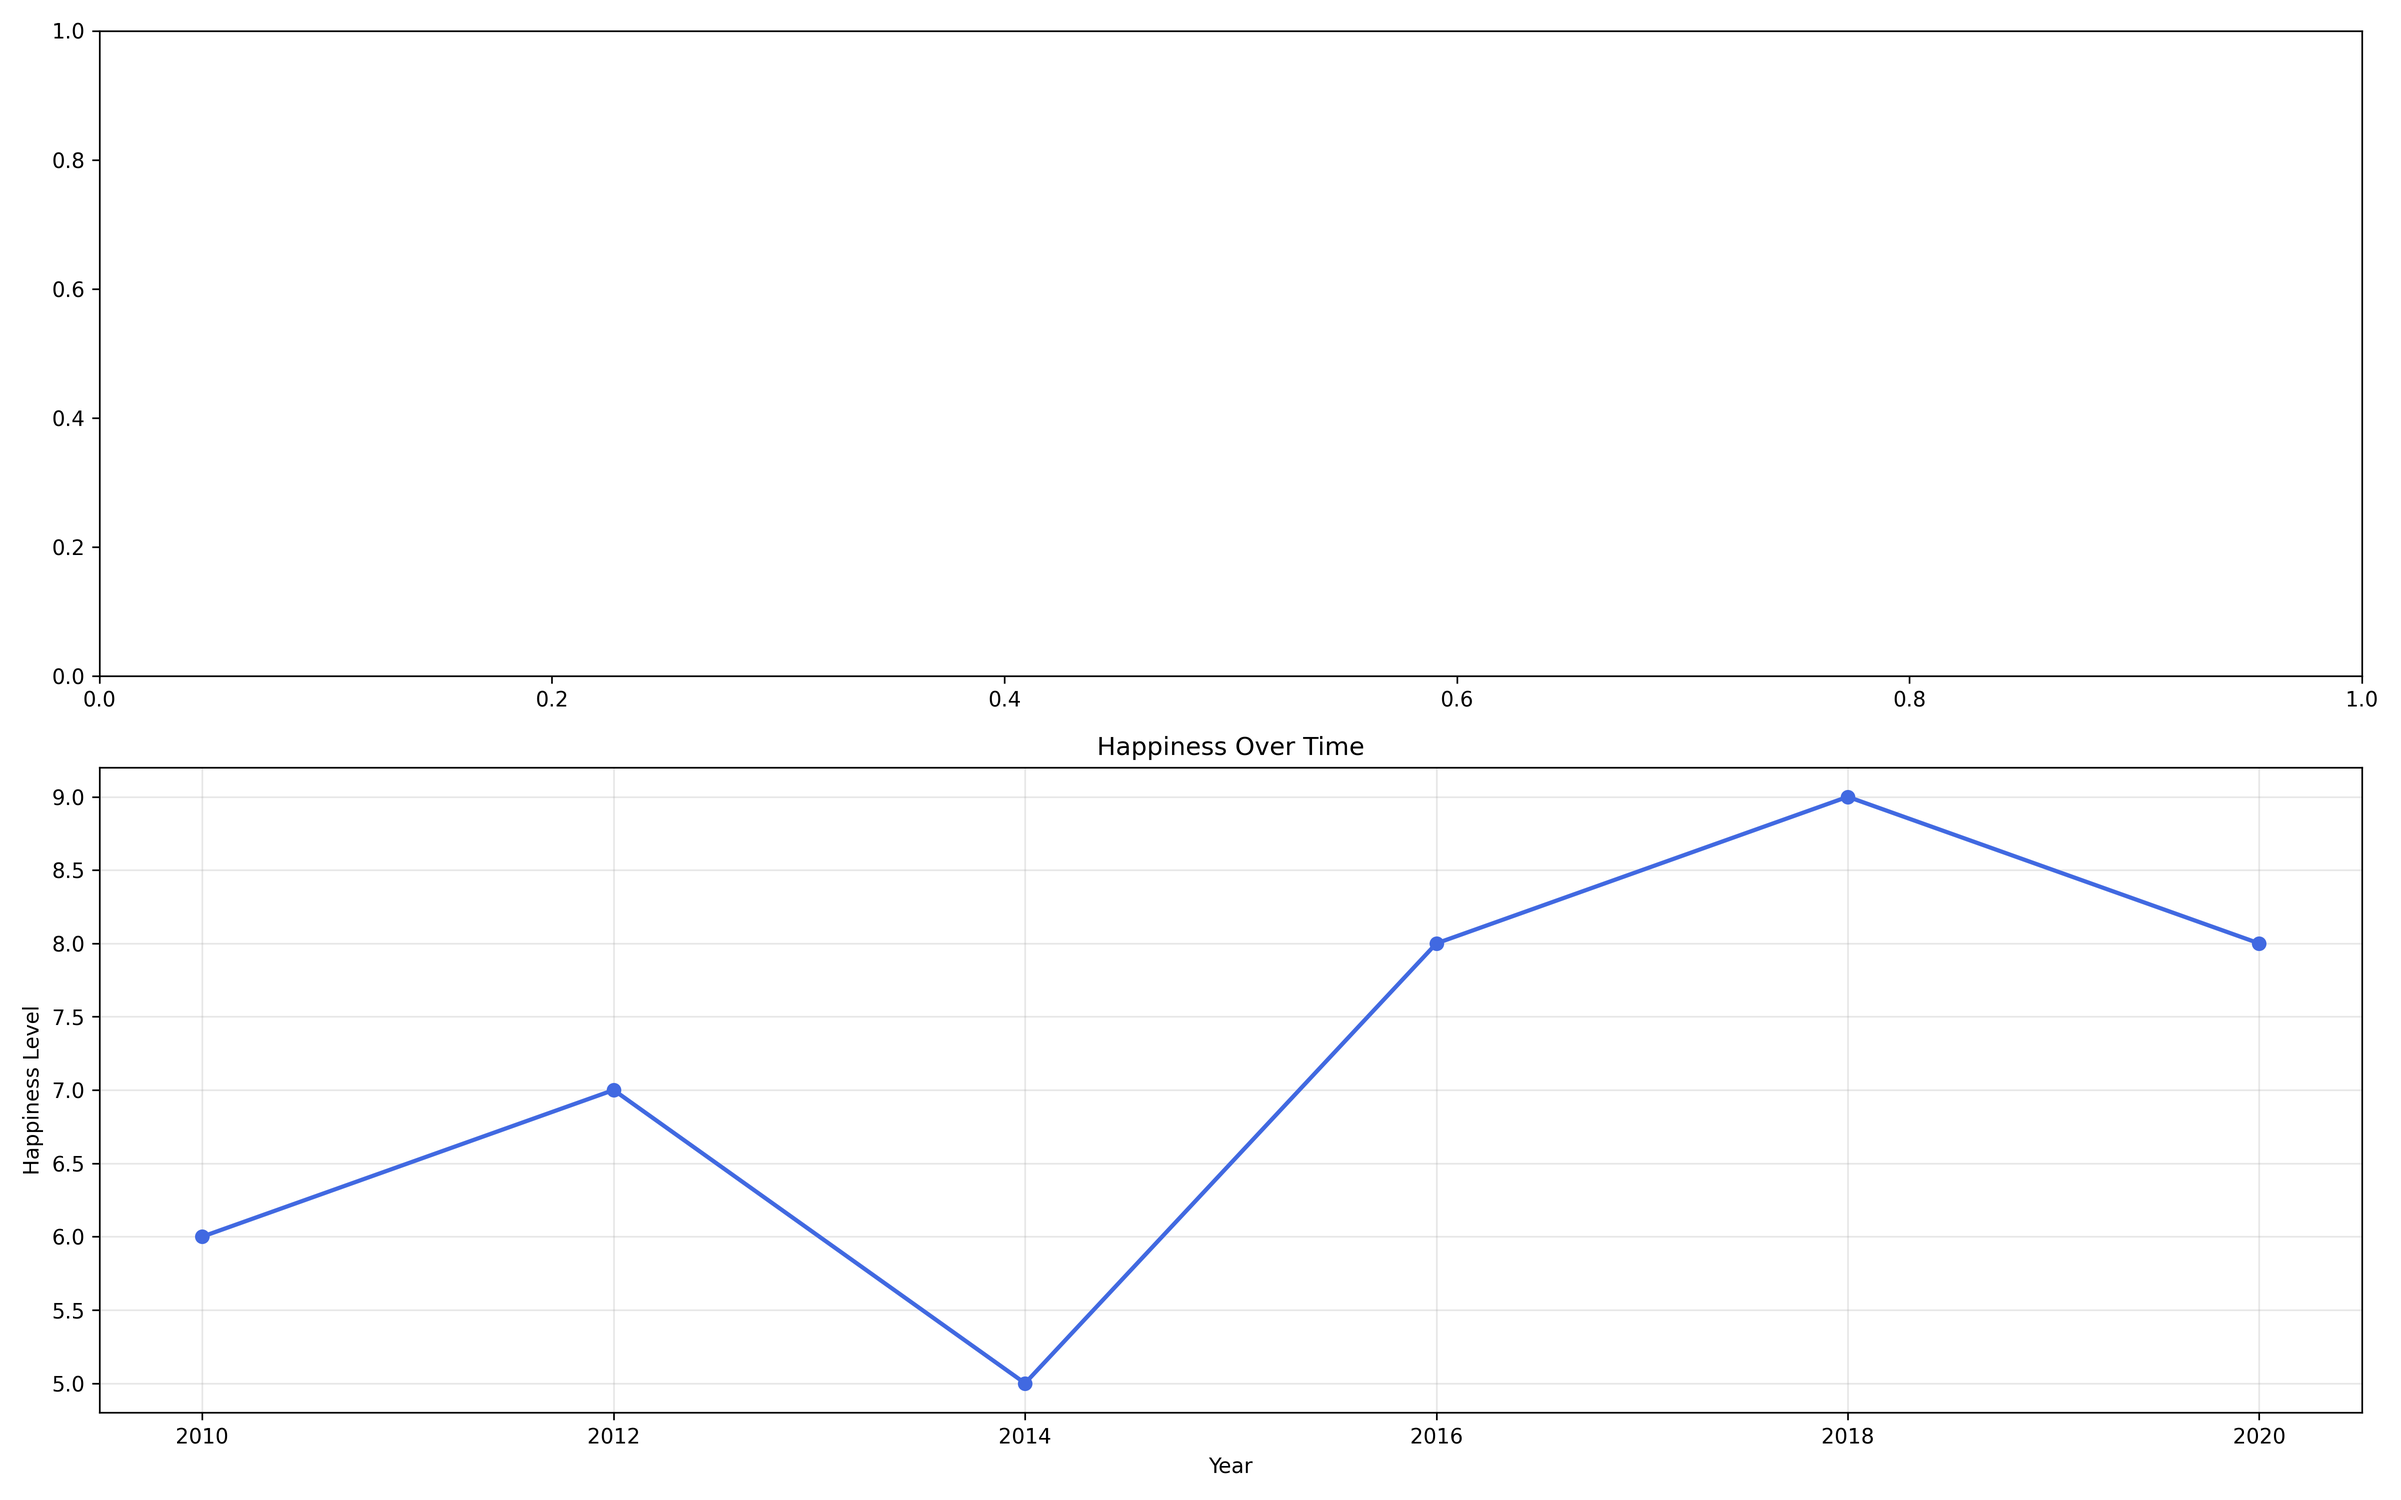
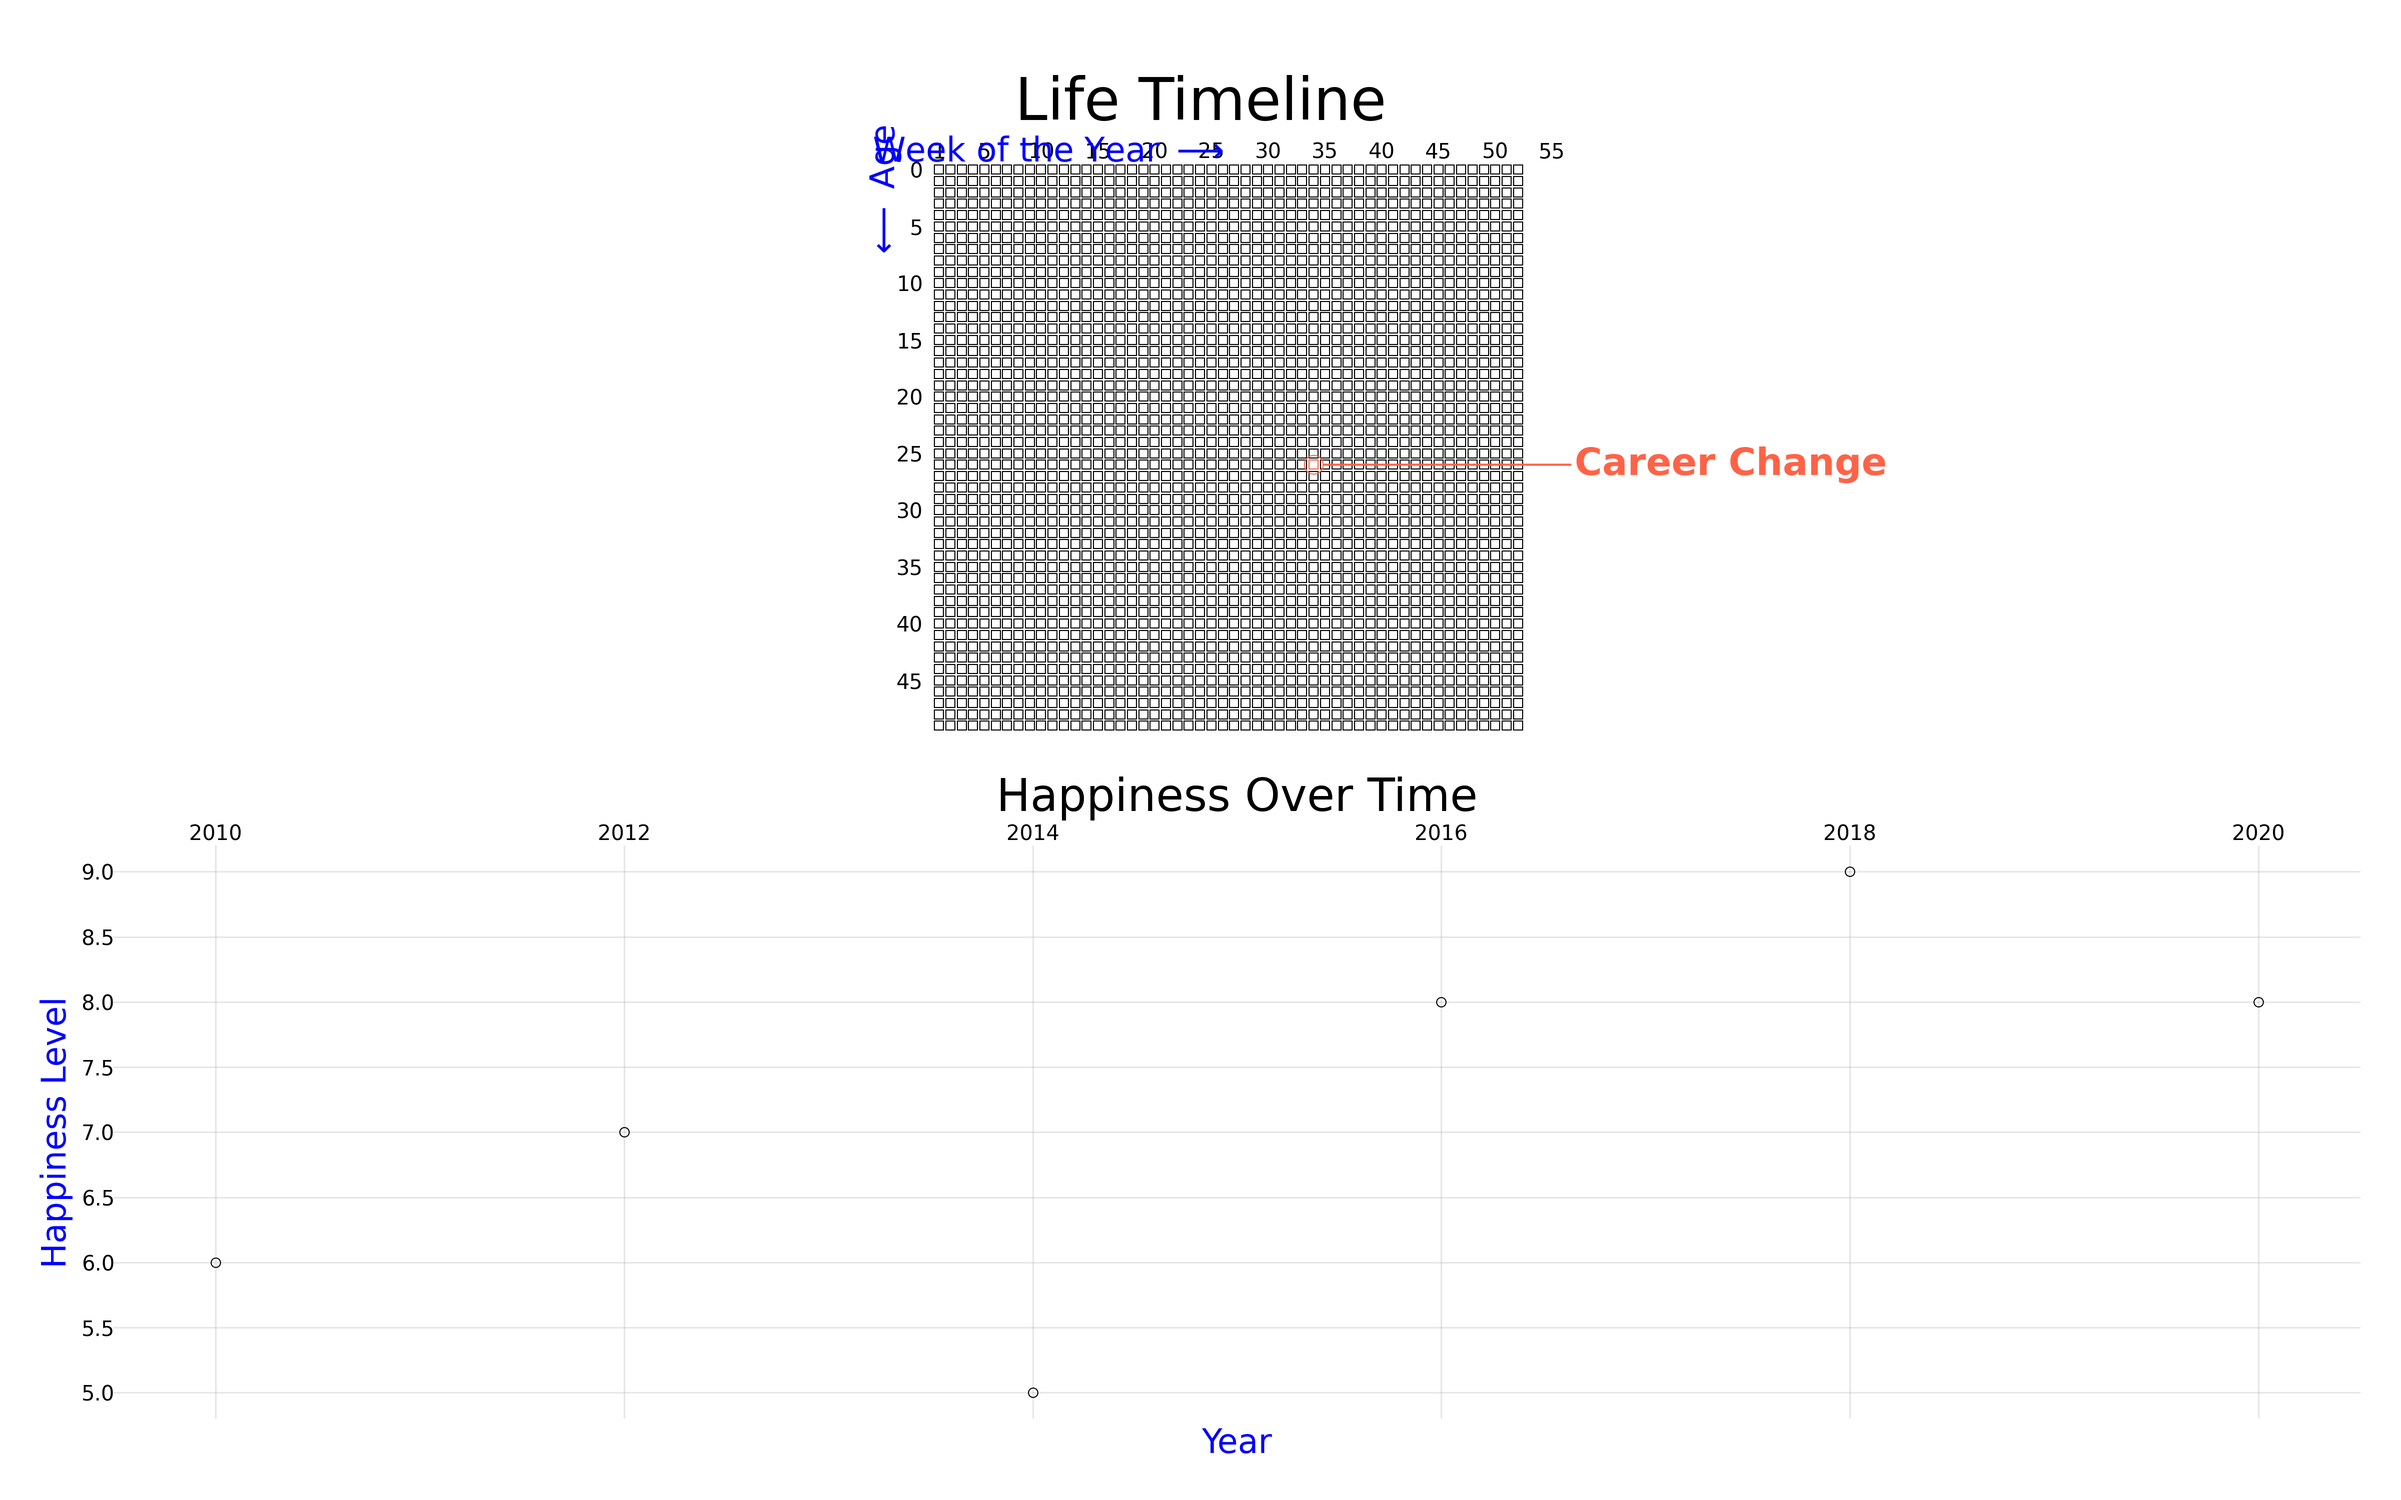
Fix blank axes in provided-axes examples and add public draw() method
The examples were calling fig.savefig() directly without triggering
Lifegraph's internal __draw(), resulting in blank axes output. Added a
public draw() method so users who manage their own figure lifecycle can
trigger rendering explicitly. Also fixed example path handling and
updated README with provided-axes documentation.

diff --git a/examples/provided_axes.py b/examples/provided_axes.py
@@ -8,31 +8,35 @@ This example shows how to:
 """
 from lifegraph.lifegraph import Lifegraph, Papersize
 from datetime import date
+from pathlib import Path
 import matplotlib.pyplot as plt
+
+IMAGES_DIR = Path(__file__).parent / "images"
 
 
 def single_axes_example(path=None):
     """Example of using Lifegraph with a single provided axes"""
     # Create a figure and axes
     fig, ax = plt.subplots(figsize=(10, 8))
-    
+
     # Create Lifegraph with the provided axes
     birthday = date(1990, 11, 1)
     g = Lifegraph(birthday, max_age=50, ax=ax)
-    
+
     # Add some life events
     g.add_life_event('First Job', date(2012, 6, 1), color='#00FF00')
     g.add_life_event('Got Married', date(2015, 8, 15), color='#FF1493')
     g.add_life_event('Started PhD', date(2018, 9, 1), color='#1E90FF')
-    
+
     g.add_title("My Life (Single Axes Example)")
-    
+
+    # Since we provided the axes, we trigger drawing explicitly
+    g.draw()
+
     # Since we provided the axes, we control the figure lifecycle
-    if path:
-        fig.savefig(f"{path}/provided_axes_single.png", dpi=300)
-    else:
-        fig.savefig("images/provided_axes_single.png", dpi=300)
-    
+    output = Path(path) / "provided_axes_single.png" if path else IMAGES_DIR / "provided_axes_single.png"
+    fig.savefig(str(output), dpi=300)
+
     plt.close(fig)
 
 
@@ -40,32 +44,34 @@ def multiple_subplots_example(path=None):
     """Example of using Lifegraph with multiple subplots"""
     # Create a figure with two subplots side by side
     fig, (ax1, ax2) = plt.subplots(1, 2, figsize=(16, 8))
-    
+
     # Create two different life graphs
     person1_birthday = date(1985, 3, 15)
     person2_birthday = date(1992, 7, 20)
-    
+
     g1 = Lifegraph(person1_birthday, max_age=50, ax=ax1)
     g2 = Lifegraph(person2_birthday, max_age=50, ax=ax2)
-    
+
     # Add events for person 1
     g1.add_life_event('Graduated College', date(2007, 5, 20), color='#FFD700')
     g1.add_life_event('First Child', date(2012, 3, 10), color='#FF69B4')
     g1.add_title("Person 1's Life")
-    
+
     # Add events for person 2
     g2.add_life_event('Started Career', date(2014, 8, 1), color='#32CD32')
     g2.add_life_event('Bought House', date(2019, 11, 5), color='#8B4513')
     g2.add_title("Person 2's Life")
-    
+
+    # Trigger drawing on both subplots
+    g1.draw()
+    g2.draw()
+
     # Adjust layout and save
     plt.tight_layout()
-    
-    if path:
-        fig.savefig(f"{path}/provided_axes_multiple.png", dpi=300)
-    else:
-        fig.savefig("images/provided_axes_multiple.png", dpi=300)
-    
+
+    output = Path(path) / "provided_axes_multiple.png" if path else IMAGES_DIR / "provided_axes_multiple.png"
+    fig.savefig(str(output), dpi=300)
+
     plt.close(fig)
 
 
@@ -73,14 +79,17 @@ def mixed_plot_example(path=None):
     """Example mixing Lifegraph with other matplotlib plots"""
     # Create a figure with multiple subplots of different types
     fig = plt.figure(figsize=(16, 10))
-    
+
     # Life graph in the top subplot
     ax1 = fig.add_subplot(2, 1, 1)
     birthday = date(1988, 5, 10)
     g = Lifegraph(birthday, max_age=50, ax=ax1)
     g.add_life_event('Career Change', date(2015, 1, 1), color='#FF6347')
     g.add_title("Life Timeline")
-    
+
+    # Trigger drawing on the lifegraph axes
+    g.draw()
+
     # Regular matplotlib plot in the bottom subplot
     ax2 = fig.add_subplot(2, 1, 2)
     years = [2010, 2012, 2014, 2016, 2018, 2020]
@@ -90,14 +99,12 @@ def mixed_plot_example(path=None):
     ax2.set_ylabel('Happiness Level')
     ax2.set_title('Happiness Over Time')
     ax2.grid(True, alpha=0.3)
-    
+
     plt.tight_layout()
-    
-    if path:
-        fig.savefig(f"{path}/provided_axes_mixed.png", dpi=300)
-    else:
-        fig.savefig("images/provided_axes_mixed.png", dpi=300)
-    
+
+    output = Path(path) / "provided_axes_mixed.png" if path else IMAGES_DIR / "provided_axes_mixed.png"
+    fig.savefig(str(output), dpi=300)
+
     plt.close(fig)
 
 
@@ -105,20 +112,15 @@ def main(path=None):
     """Run all examples"""
     print("Creating single axes example...")
     single_axes_example(path)
-    
+
     print("Creating multiple subplots example...")
     multiple_subplots_example(path)
-    
+
     print("Creating mixed plot example...")
     mixed_plot_example(path)
-    
+
     print("Examples created successfully!")
 
 
 if __name__ == '__main__':
     main()
-
-
-def test_provided_axes(tmp_path):
-    """Test function for pytest"""
-    main(tmp_path)

diff --git a/tests/test_lifegraph.py b/tests/test_lifegraph.py
@@ -138,6 +138,7 @@ def test_lifegraph_axes_receives_annotations(tmp_path):
     
     # Trigger drawing
     output_file = tmp_path / "test_annotations.png"
+    print("Saving to", output_file)
     g.save(str(output_file))
     
     # Verify that annotations were added to the axes
@@ -168,6 +169,7 @@ def test_lifegraph_axes_multiple_subplots(tmp_path):
     
     # Draw both by calling save on each (or we could call a draw method if it were public)
     output_file = tmp_path / "test_multiple.png"
+    print("Saving to", output_file)
     # We need to trigger drawing on both before saving
     # Since save calls __draw internally, we call save on both
     # But only need to actually write the file once
@@ -183,3 +185,6 @@ def test_lifegraph_axes_multiple_subplots(tmp_path):
     
     # Clean up
     plt.close(fig)
+
+if __name__ == "__main__":
+    pytest.main()

diff --git a/lifegraph/lifegraph.py b/lifegraph/lifegraph.py
@@ -277,6 +277,15 @@ class Lifegraph:
         self.image_name = image_name
         self.image_alpha = alpha
 
+    def draw(self):
+        """Draw the graph onto the axes.
+
+        This is useful when using a provided axes instance and you want to
+        trigger rendering without saving or showing. For example, when composing
+        multiple subplots and saving the figure yourself.
+        """
+        self.__draw()
+
     def show(self):
         """Show the graph"""
         self.__draw()

diff --git a/README.md b/README.md
@@ -10,6 +10,9 @@
 [grid_add_image]: examples/images/grid_add_image.png "Add an image"
 [grid_customization]: examples/images/grid_customization.png "Customize the grid"
 [annotation_placement]: examples/images/placement.png "Annotation placement"
+[provided_axes_single]: examples/images/provided_axes_single.png "Single provided axes"
+[provided_axes_multiple]: examples/images/provided_axes_multiple.png "Multiple subplots"
+[provided_axes_mixed]: examples/images/provided_axes_mixed.png "Mixed plot types"
 
 # Life Graph
 [![License](https://img.shields.io/github/license/k20shores/lifegraph.svg)](https://github.com/k20shores/lifegraph/blob/main/LICENSE)
@@ -285,6 +288,96 @@ g.save("images/placement.png")
 ```
 
 ![Annotation Placement][annotation_placement]
+
+# Using a Provided Axes
+
+You can pass your own matplotlib axes to Lifegraph with the `ax` parameter. This lets you
+compose lifegraphs with other matplotlib plots or place multiple lifegraphs on a single figure.
+When using a provided axes, call `g.draw()` to render the lifegraph, then manage the figure
+lifecycle yourself.
+
+## Single Provided Axes
+```
+from lifegraph.lifegraph import Lifegraph, Papersize
+from datetime import date
+import matplotlib.pyplot as plt
+
+fig, ax = plt.subplots(figsize=(10, 8))
+
+birthday = date(1990, 11, 1)
+g = Lifegraph(birthday, max_age=50, ax=ax)
+
+g.add_life_event('First Job', date(2012, 6, 1), color='#00FF00')
+g.add_life_event('Got Married', date(2015, 8, 15), color='#FF1493')
+g.add_life_event('Started PhD', date(2018, 9, 1), color='#1E90FF')
+
+g.add_title("My Life (Single Axes Example)")
+g.draw()
+
+fig.savefig("provided_axes_single.png", dpi=300)
+plt.close(fig)
+```
+
+![Single provided axes][provided_axes_single]
+
+## Multiple Subplots
+```
+from lifegraph.lifegraph import Lifegraph, Papersize
+from datetime import date
+import matplotlib.pyplot as plt
+
+fig, (ax1, ax2) = plt.subplots(1, 2, figsize=(16, 8))
+
+g1 = Lifegraph(date(1985, 3, 15), max_age=50, ax=ax1)
+g2 = Lifegraph(date(1992, 7, 20), max_age=50, ax=ax2)
+
+g1.add_life_event('Graduated College', date(2007, 5, 20), color='#FFD700')
+g1.add_life_event('First Child', date(2012, 3, 10), color='#FF69B4')
+g1.add_title("Person 1's Life")
+
+g2.add_life_event('Started Career', date(2014, 8, 1), color='#32CD32')
+g2.add_life_event('Bought House', date(2019, 11, 5), color='#8B4513')
+g2.add_title("Person 2's Life")
+
+g1.draw()
+g2.draw()
+
+plt.tight_layout()
+fig.savefig("provided_axes_multiple.png", dpi=300)
+plt.close(fig)
+```
+
+![Multiple subplots][provided_axes_multiple]
+
+## Mixing Lifegraph with Other Plots
+```
+from lifegraph.lifegraph import Lifegraph, Papersize
+from datetime import date
+import matplotlib.pyplot as plt
+
+fig = plt.figure(figsize=(16, 10))
+
+ax1 = fig.add_subplot(2, 1, 1)
+g = Lifegraph(date(1988, 5, 10), max_age=50, ax=ax1)
+g.add_life_event('Career Change', date(2015, 1, 1), color='#FF6347')
+g.add_title("Life Timeline")
+g.draw()
+
+ax2 = fig.add_subplot(2, 1, 2)
+years = [2010, 2012, 2014, 2016, 2018, 2020]
+happiness = [6, 7, 5, 8, 9, 8]
+ax2.plot(years, happiness, marker='o', linewidth=2, color='#4169E1')
+ax2.set_xlabel('Year')
+ax2.set_ylabel('Happiness Level')
+ax2.set_title('Happiness Over Time')
+ax2.grid(True, alpha=0.3)
+
+plt.tight_layout()
+fig.savefig("provided_axes_mixed.png", dpi=300)
+plt.close(fig)
+```
+
+![Mixed plot types][provided_axes_mixed]
 
 # Contributing and Code of Conduct
 [Read our contributing guidelines](docs/CONTRIBUTING)
